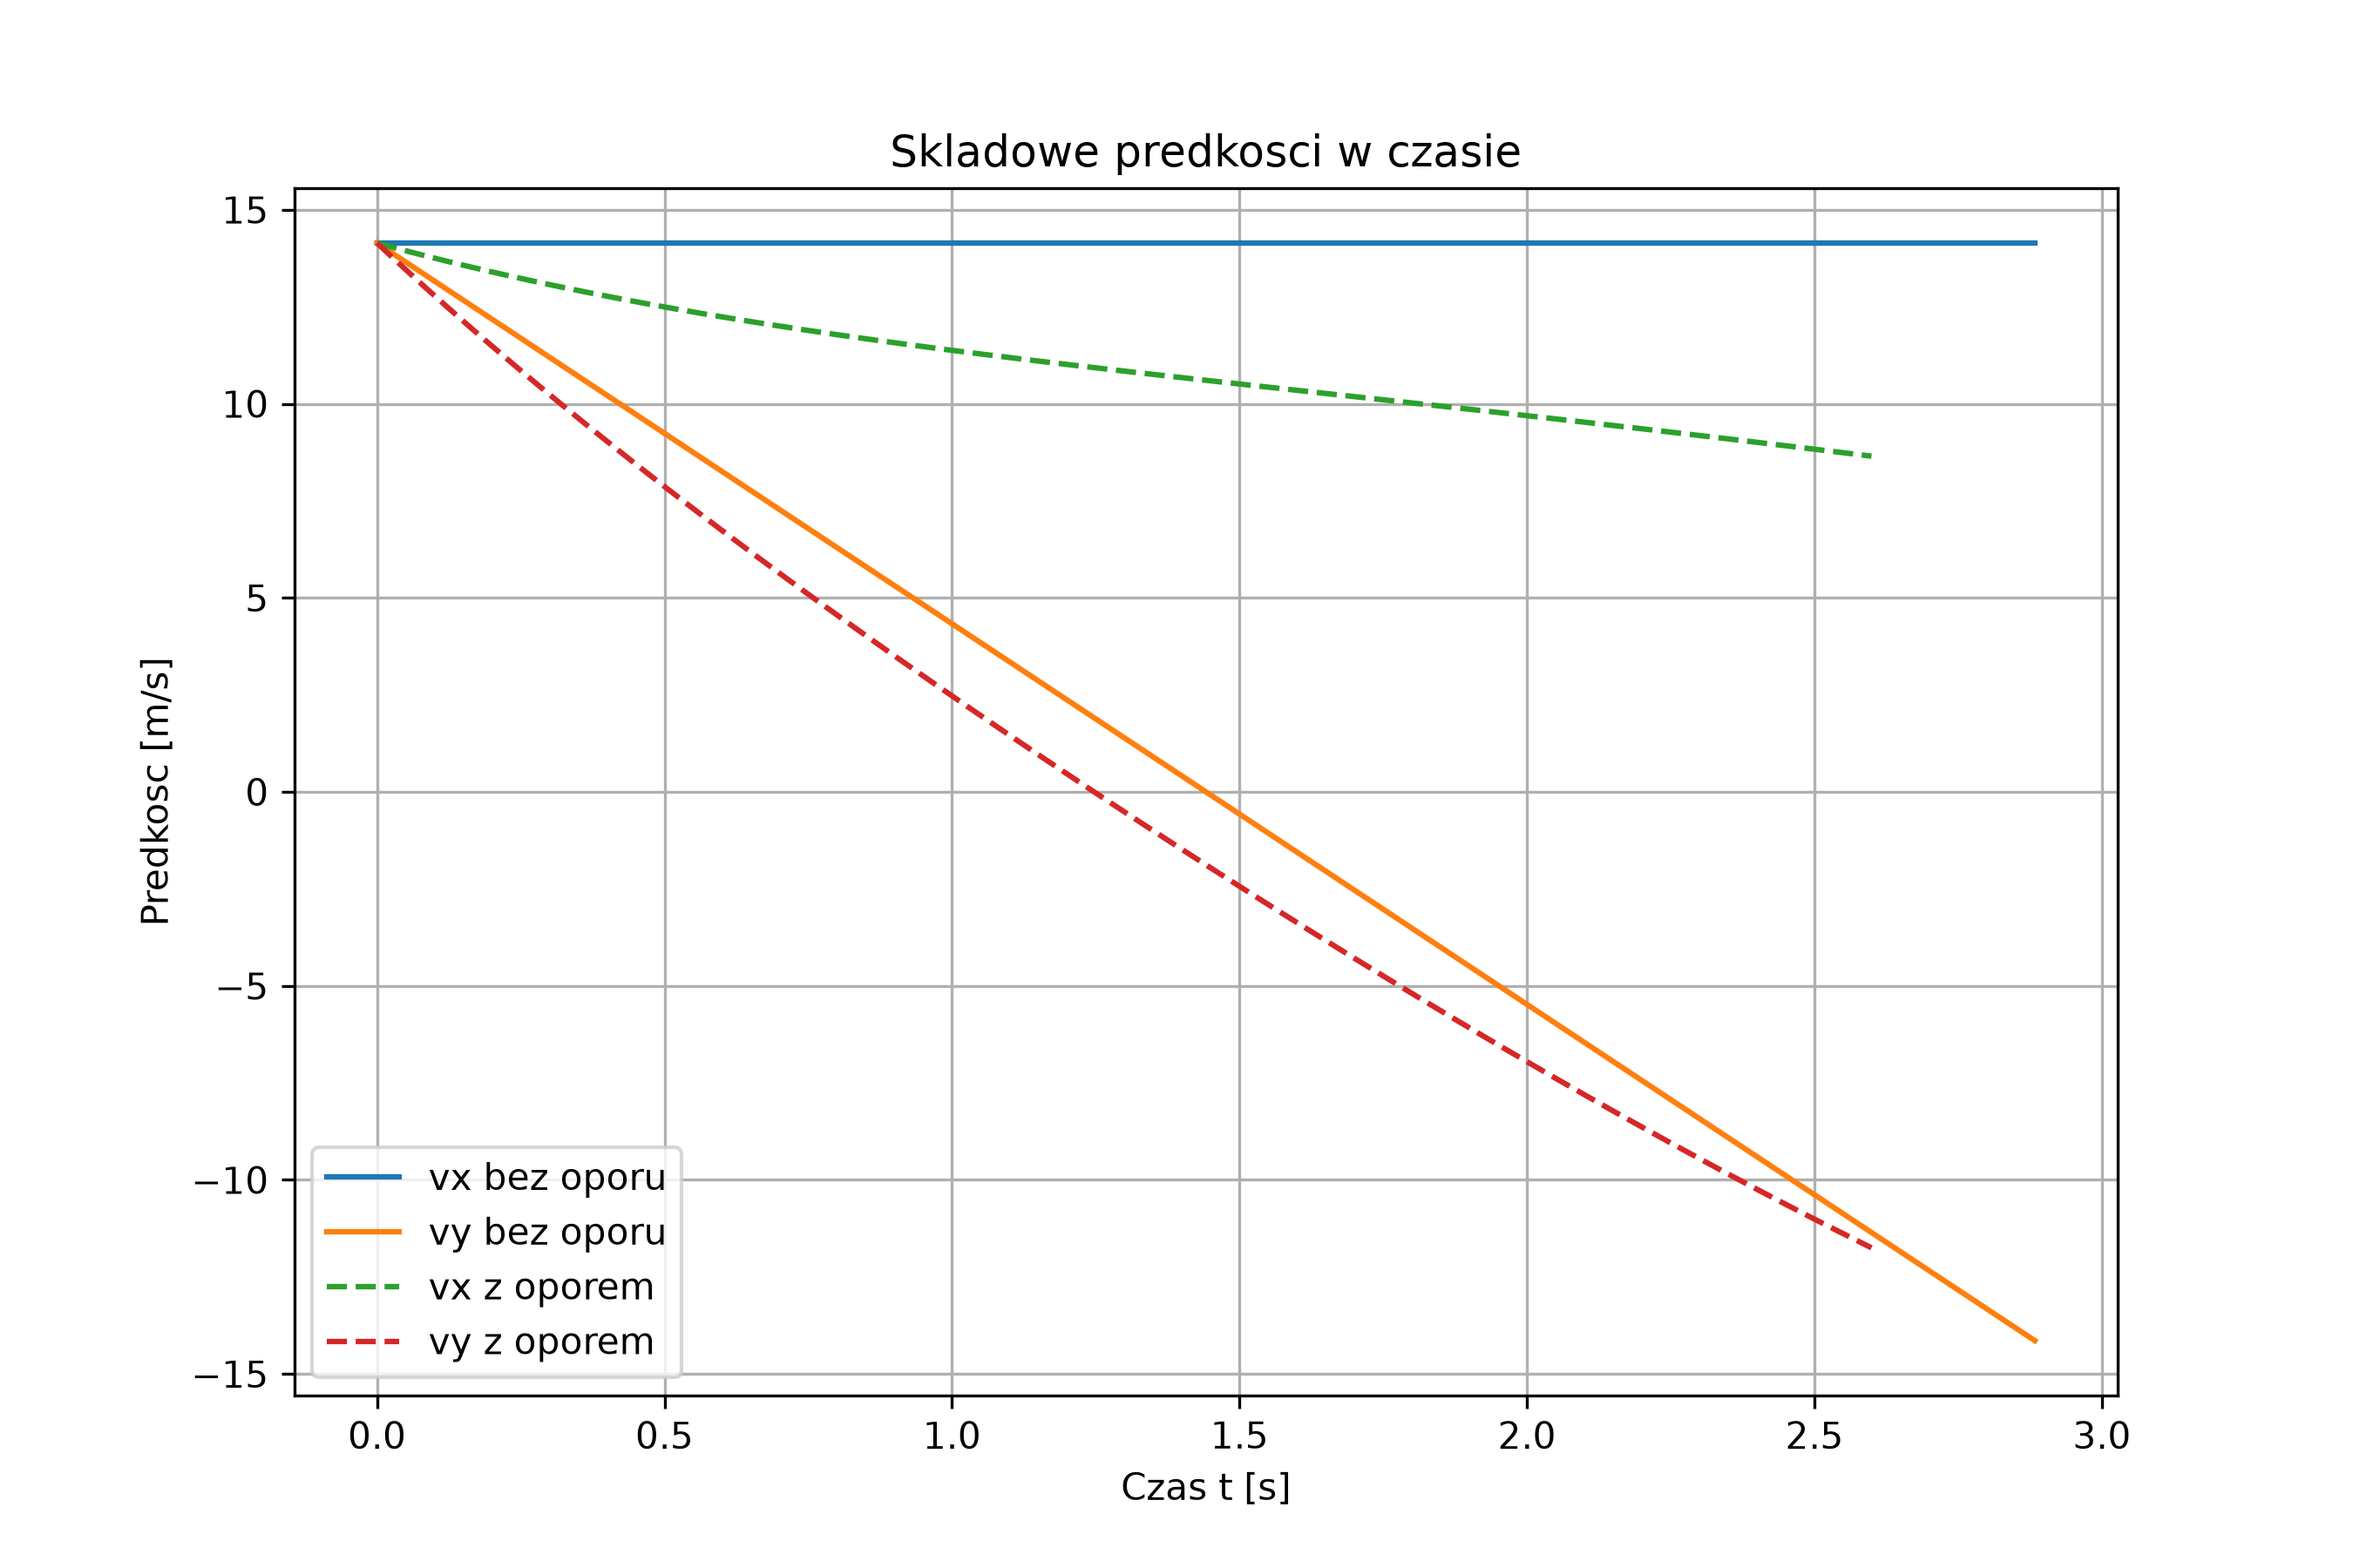
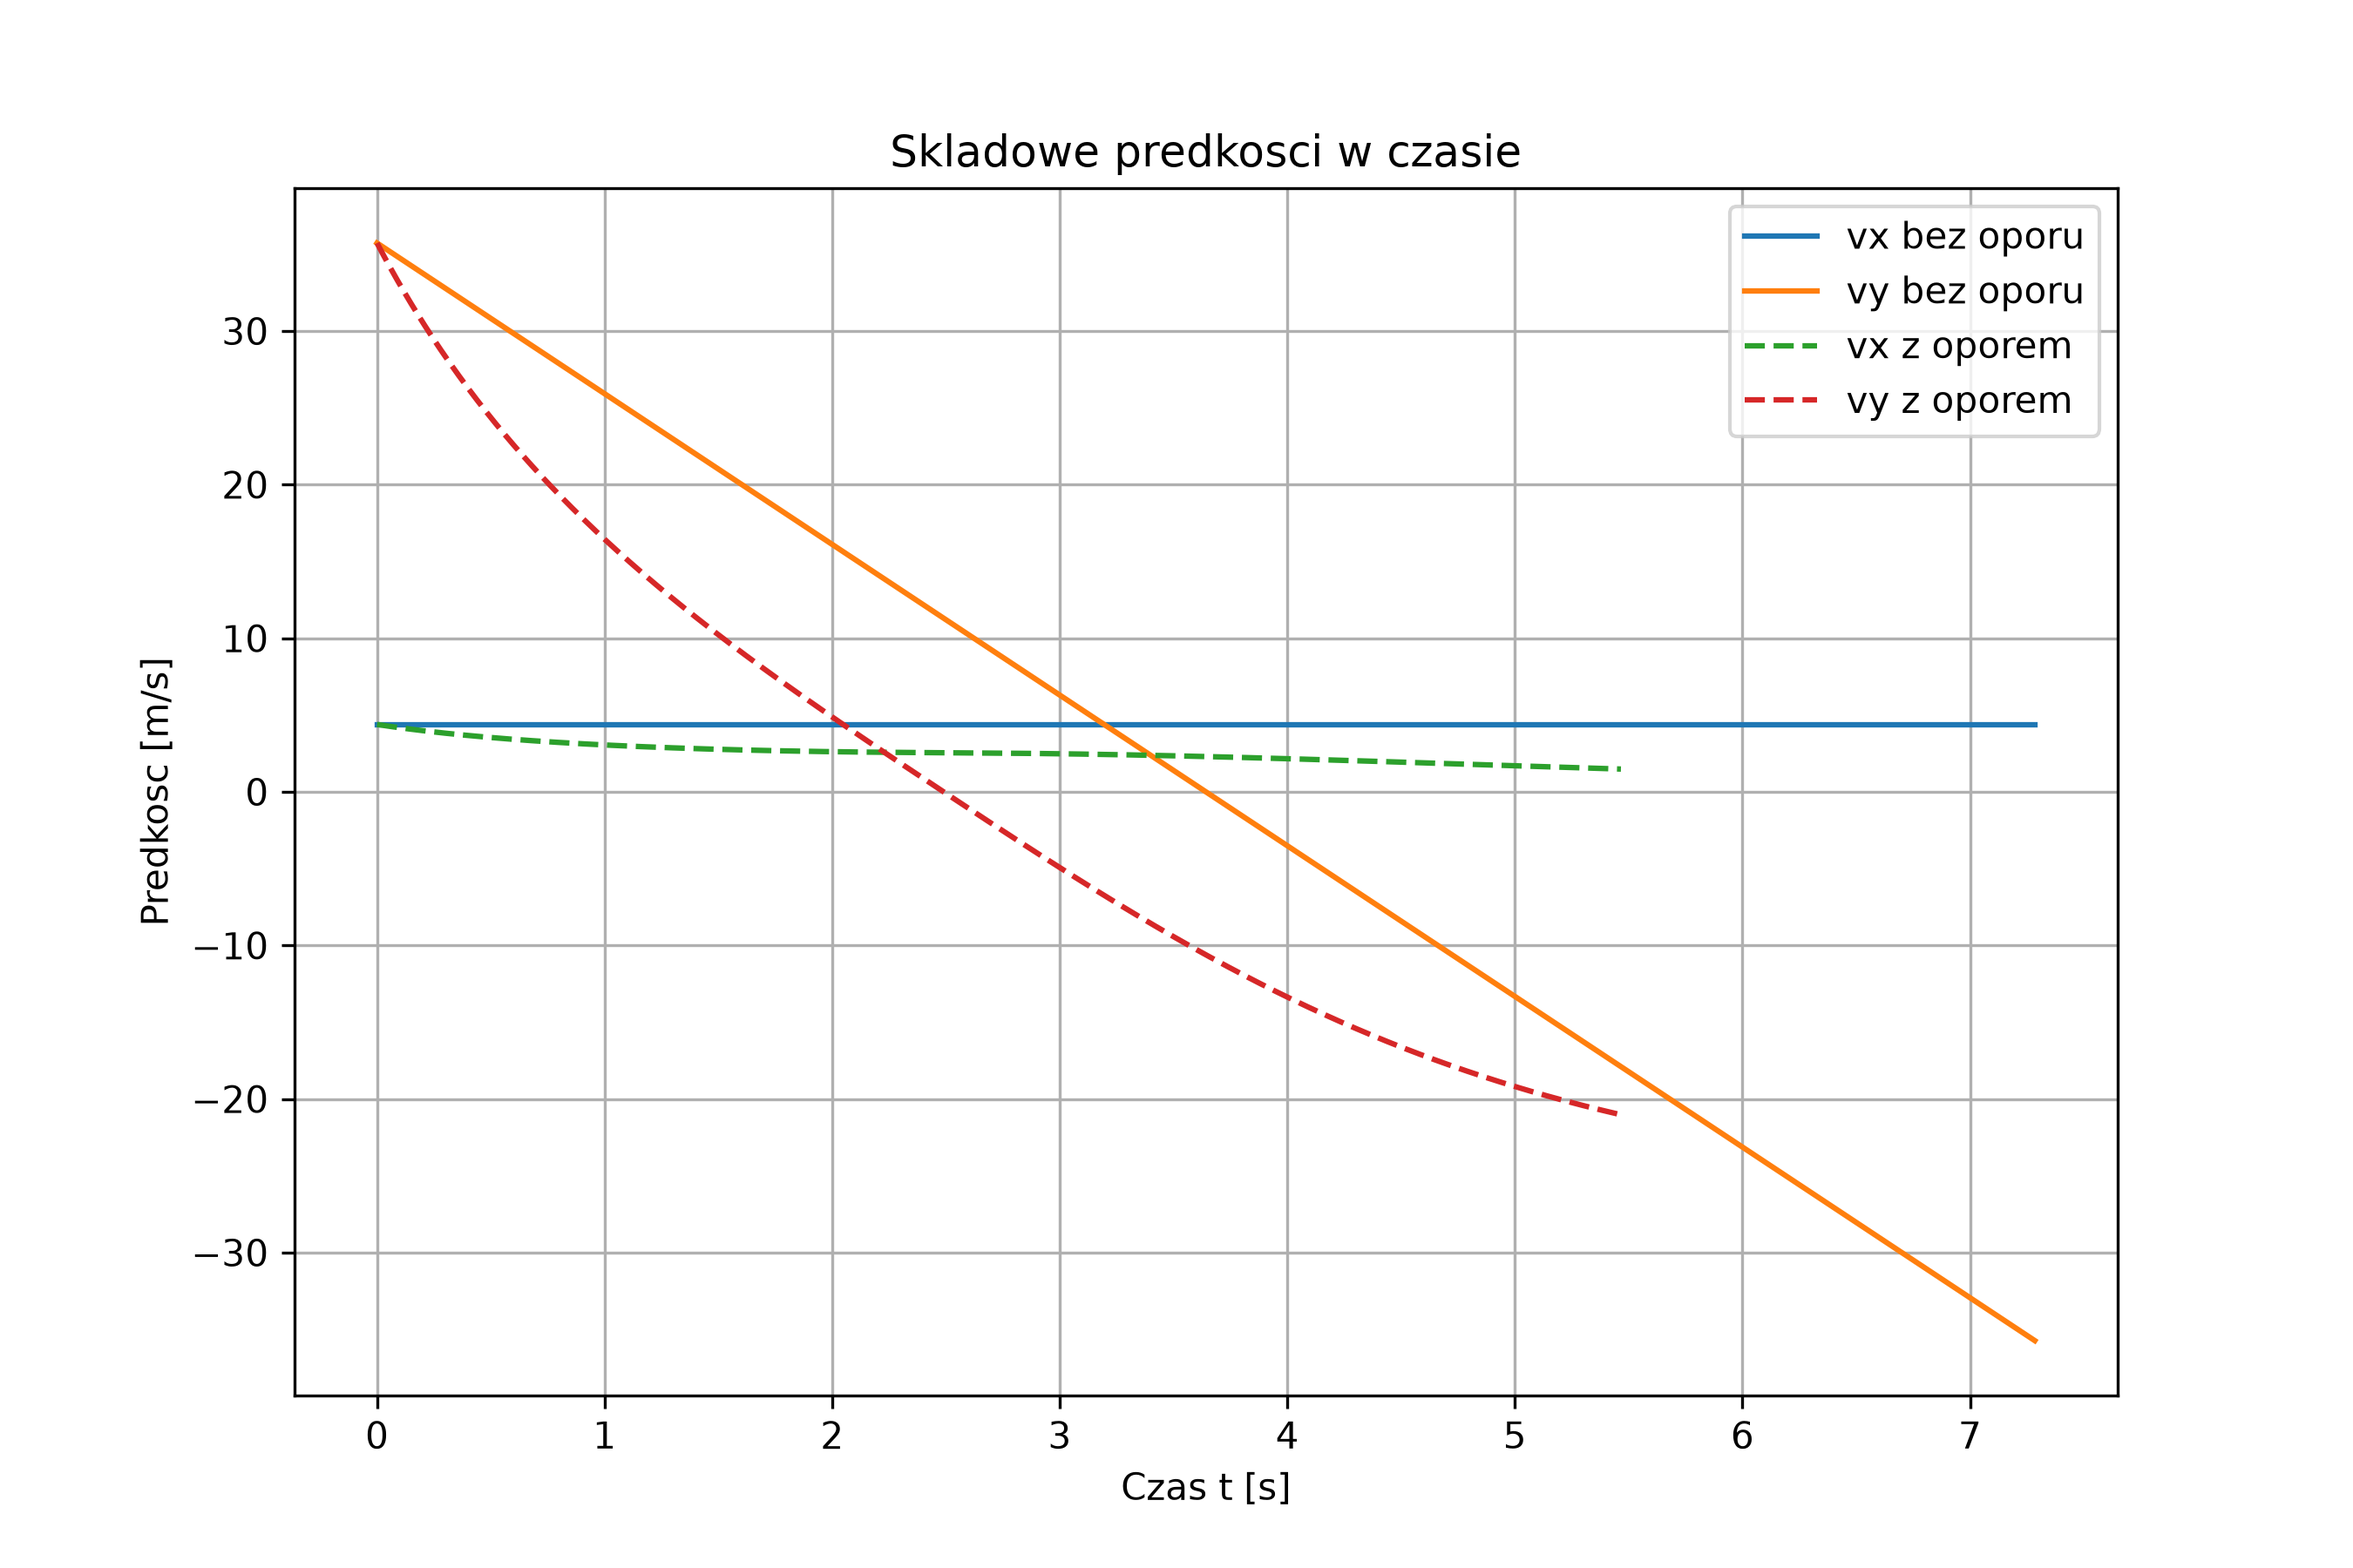
W transkrypcja.md proszę zamienić zapisy \(...\) w końcowym opisie na matematykę inline $...$.

diff --git a/pages/solutions/04_sol_vscode/symulacja.py b/pages/solutions/04_sol_vscode/symulacja.py
@@ -7,8 +7,8 @@ from pathlib import Path
 # 1. PARAMETRY FIZYCZNE
 # ==========================================
 
-v0 = 20.0          # Predkosc poczatkowa [m/s]
-alpha = 45.0       # Kat wyrzutu [stopnie]
+v0 = 36.0          # Predkosc poczatkowa [m/s]
+alpha = 83.0       # Kat wyrzutu [stopnie]
 g = 9.81           # Przyspieszenie ziemskie [m/s^2]
 
 m = 0.20           # Masa ciala [kg]

diff --git a/pages/solutions/04_sol_vscode/raport.md b/pages/solutions/04_sol_vscode/raport.md
@@ -3,8 +3,8 @@
 **Przedmiot:** Programy Użytkowe  
 **Temat:** Rzut ukośny – analiza teoretyczna i numeryczna  
 **Parametry początkowe:**
-- Prędkość początkowa: \(v_0 = 20\ \text{m/s}\)
-- Kąt wyrzutu: \(\alpha = 45^\circ\)
+- Prędkość początkowa: \(v_0 = 36\ \text{m/s}\)
+- Kąt wyrzutu: \(\alpha = 83^\circ\)
 - Przyspieszenie ziemskie: \(g = 9{,}81\ \text{m/s}^2\)
 
 ---
@@ -43,8 +43,8 @@ W celu uproszczenia analizy przyjęto następujące założenia:
 2. Ruch odbywa się w jednorodnym polu grawitacyjnym Ziemi.
 3. Przyspieszenie ziemskie jest stałe i wynosi \(9{,}81\ \text{m/s}^2\).
 4. Początkowa wysokość wyrzutu wynosi zero.
-5. Prędkość początkowa wynosi \(20\ \text{m/s}\).
-6. Kąt wyrzutu wynosi \(45^\circ\).
+5. Prędkość początkowa wynosi \(36\ \text{m/s}\).
+6. Kąt wyrzutu wynosi \(83^\circ\).
 7. W modelu z oporem powietrza przyjęto opór proporcjonalny do kwadratu prędkości.
 
 ### 2.1. Wielkości fizyczne i jednostki SI
@@ -100,21 +100,21 @@ $$
 Dla przyjętych parametrów:
 
 $$
-v_{0x}=20\cos45^\circ
+v_{0x}=36\cos83^\circ
 $$
 
 $$
-v_{0x}\approx14{,}14\ \text{m/s}
+v_{0x}\approx4{,}39\ \text{m/s}
 $$
 
 Analogicznie:
 
 $$
-v_{0y}=20\sin45^\circ
+v_{0y}=36\sin83^\circ
 $$
 
 $$
-v_{0y}\approx14{,}14\ \text{m/s}
+v_{0y}\approx35{,}73\ \text{m/s}
 $$
 
 ### 3.2. Równania prędkości
@@ -172,13 +172,13 @@ $$
 Podstawiając dane:
 
 $$
-t_w=\frac{20\sin45^\circ}{9{,}81}
+t_w=\frac{36\sin83^\circ}{9{,}81}
 $$
 
 Ostatecznie:
 
 $$
-\boxed{t_w\approx1{,}44\ \text{s}}
+\boxed{t_w\approx3{,}64\ \text{s}}
 $$
 
 ### 3.5. Maksymalna wysokość
@@ -198,13 +198,13 @@ $$
 Dla analizowanego przypadku:
 
 $$
-H_{\max}=\frac{20^2\sin^245^\circ}{2\cdot9{,}81}
+H_{\max}=\frac{36^2\sin^283^\circ}{2\cdot9{,}81}
 $$
 
 Ostatecznie:
 
 $$
-\boxed{H_{\max}\approx10{,}19\ \text{m}}
+\boxed{H_{\max}\approx65{,}07\ \text{m}}
 $$
 
 ### 3.6. Całkowity czas lotu
@@ -222,7 +222,7 @@ $$
 Ostatecznie:
 
 $$
-\boxed{T\approx2{,}88\ \text{s}}
+\boxed{T\approx7{,}28\ \text{s}}
 $$
 
 ### 3.7. Zasięg rzutu
@@ -242,13 +242,13 @@ $$
 Dla przyjętych parametrów:
 
 $$
-R=\frac{20^2\sin90^\circ}{9{,}81}
+R=\frac{36^2\sin166^\circ}{9{,}81}
 $$
 
 Ostatecznie:
 
 $$
-\boxed{R\approx40{,}77\ \text{m}}
+\boxed{R\approx31{,}96\ \text{m}}
 $$
 ## 4. Rzut ukośny z oporem powietrza
 
@@ -353,8 +353,8 @@ Do przeprowadzenia symulacji przyjęto następujące wartości:
 | Gęstość powietrza | ρ | 1,225 | kg/m³ |
 | Współczynnik oporu | C<sub>d</sub> | 0,47 | - |
 | Powierzchnia przekroju | A | 0,01 | m² |
-| Prędkość początkowa | v₀ | 20 | m/s |
-| Kąt wyrzutu | α | 45 | ° |
+| Prędkość początkowa | v₀ | 36 | m/s |
+| Kąt wyrzutu | α | 83 | ° |
 | Przyspieszenie ziemskie | g | 9,81 | m/s² |
 
 Przyjęte parametry odpowiadają uproszczonemu modelowi niewielkiego kulistego ciała poruszającego się w powietrzu.
@@ -386,11 +386,11 @@ $$
 Dla przyjętych parametrów:
 
 $$
-v_x(0)\approx14{,}14\ \text{m/s}
+v_x(0)\approx4{,}39\ \text{m/s}
 $$
 
 $$
-v_y(0)\approx14{,}14\ \text{m/s}
+v_y(0)\approx35{,}73\ \text{m/s}
 $$
 
 ### 4.5. Metoda rozwiązania numerycznego
@@ -412,6 +412,40 @@ y(t)\leq 0
 $$
 
 Dzięki temu możliwe będzie wyznaczenie toru ruchu, czasu lotu oraz zasięgu rzutu z uwzględnieniem oporu powietrza.
+
+Poniższy fragment przedstawia implementację pojedynczego kroku metody RK4. Funkcja `derivatives(state)` oblicza pochodne zgodnie z układem równań z oporem powietrza opisanym wyżej.
+
+```python
+def rk4_step(state, dt):
+    k1 = derivatives(state)
+
+    s2 = [
+        state[i] + 0.5 * dt * k1[i]
+        for i in range(4)
+    ]
+    k2 = derivatives(s2)
+
+    s3 = [
+        state[i] + 0.5 * dt * k2[i]
+        for i in range(4)
+    ]
+    k3 = derivatives(s3)
+
+    s4 = [
+        state[i] + dt * k3[i]
+        for i in range(4)
+    ]
+    k4 = derivatives(s4)
+
+    return [
+        state[i] + (dt / 6) *
+        (k1[i] + 2*k2[i] + 2*k3[i] + k4[i])
+        for i in range(4)
+    ]
+```
+
+Pełna implementacja symulacji i generowania wykresów znajduje się w pliku [symulacja.py](./symulacja.py).
+
 ### 5.2. Analiza toru ruchu
 
 ![Porównanie torów ruchu](wykresy/tor_ruchu.png)

diff --git a/pages/solutions/01_sol_markdown/transkrypcja.md b/pages/solutions/01_sol_markdown/transkrypcja.md
@@ -48,6 +48,6 @@ Gdzie:
 - $\hbar$ – zredukowana stała Plancka.
 
 - Stany energetyczne mogą być zdegenerowane.
-- **Sferyczna kropka kwantowa** – rozdzielenie funkcji falowej \(\psi\) na część radialną i kątową (podobnie jak w zagadnieniu atomu wodoru w mechanice kwantowej).
+- **Sferyczna kropka kwantowa** – rozdzielenie funkcji falowej $\psi$ na część radialną i kątową (podobnie jak w zagadnieniu atomu wodoru w mechanice kwantowej).
 
-Rozwiązanie równania radialnego prowadzi do funkcji Bessela. Dla problemu sferycznie symetrycznego stosuje się sferyczne funkcje Bessela \(j_l(kr)\), które można wyrazić za pomocą funkcji Bessela rzędu \(l+\frac{1}{2}\).
+Rozwiązanie równania radialnego prowadzi do funkcji Bessela. Dla problemu sferycznie symetrycznego stosuje się sferyczne funkcje Bessela $j_l(kr)$, które można wyrazić za pomocą funkcji Bessela rzędu $l+\frac{1}{2}$.
